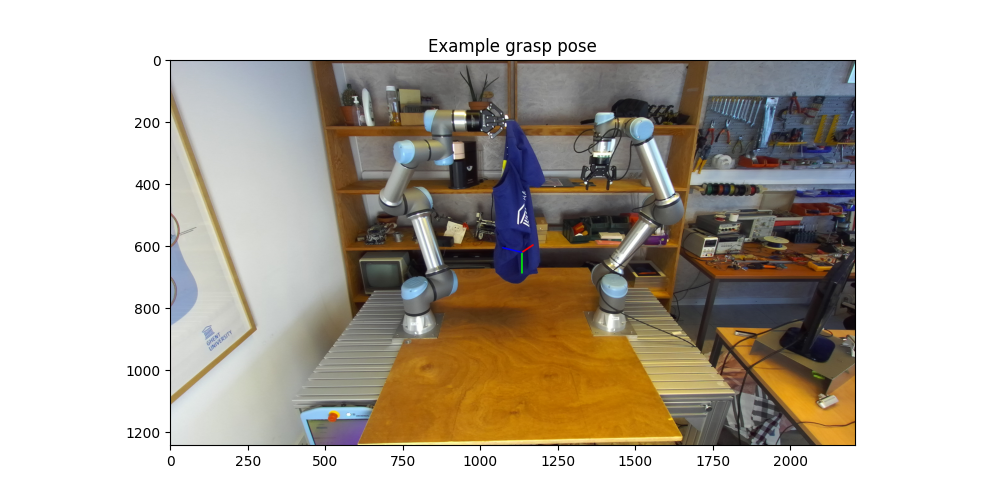
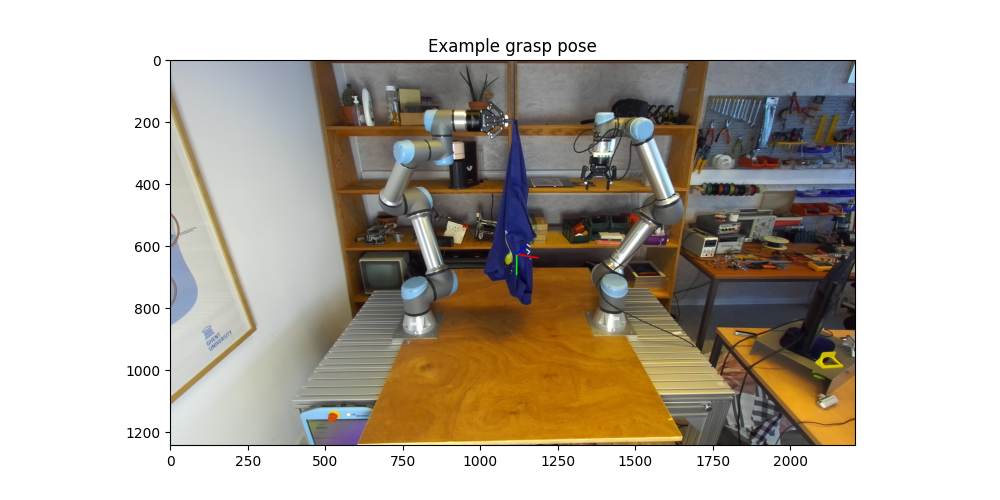
[A] z_offset

diff --git a/competition_pipeline/test_grasp.py b/competition_pipeline/test_grasp.py
@@ -15,13 +15,18 @@ import json
 import numpy as np
 import time
 from ClothCompetition.main_plan_e2e import Planner
+from competition_pipeline.utils import init_segmentation
 
 current_dir = os.path.dirname(__file__)
 
 in_competition = False
 
 if __name__ == "__main__":
+    init_segmentation()
+
     planner = Planner()
+    time_start= time.time()
+
     if in_competition:
         # TODO: ask for IP address
         # Read data from the competition server
@@ -31,8 +36,7 @@ if __name__ == "__main__":
         observation_dir, sample_id = download_latest_observation(dataset_dir, server_url)
     else:
         # Read data from a specific folder
-        observation_dir = os.path.join(current_dir, "sample_000000", "observation_start")
-    time_start= time.time()
+        observation_dir = os.path.join(current_dir, "cloth_competition_dataset_0000/sample_000002", "observation_start")
     observation = load_competition_observation(observation_dir)
     # Read camera information
     camera_pose_in_world = observation.camera_pose_in_world

diff --git a/competition_pipeline/test_grasp_in_dataset.py b/competition_pipeline/test_grasp_in_dataset.py
@@ -15,6 +15,7 @@ import json
 import numpy as np
 # from ClothCompetition.main_plan_e2e import Planner
 from competition_pipeline.utils import init_segmentation
+from ClothCompetition.main_plan_e2e import Planner
 
 current_dir = os.path.dirname(__file__)
 
@@ -24,6 +25,7 @@ random_sample = False
 if __name__ == "__main__":
     # Initialize predictor
     init_segmentation()
+    planner = Planner()
 
     # planner = Planner()
     dataset_dir = os.path.join(current_dir, dataset_name)
@@ -57,7 +59,7 @@ if __name__ == "__main__":
             camera_resolution=camera_resolution,
             image_rgb=image_rgb,
             point_cloud=point_cloud,
-            planner = None,
+            planner = planner,
         )
 
         # Give the pose an offset along the TCP frame z axis

diff --git a/competition_pipeline/sample_grasp.py b/competition_pipeline/sample_grasp.py
@@ -35,7 +35,7 @@ def sample_grasp(camera_pose_in_world,
     pc_origin = pc.copy()
     
     z_min, z_max = np.min(z), np.max(z)
-    if z_max - z_min <= z_offset:
+    if z_max - z_min <= z_offset+0.2:
         # if z_max - z_min is too small, set z_offset to 0.5*diff
         z_offset = (z_max - z_min) * 0.5
     z_max = z_max - z_offset # manually set max height for grasping
@@ -49,7 +49,7 @@ def sample_grasp(camera_pose_in_world,
     if len(idx_arr) > 0:
 
         point_candidates = pc[idx_arr]
-        nbrs = NearestNeighbors(n_neighbors=5, algorithm='auto').fit(point_candidates)
+        nbrs = NearestNeighbors(n_neighbors=4, algorithm='auto').fit(point_candidates)
         distances, indices = nbrs.kneighbors(point_candidates)
 
         local_maxima = []
